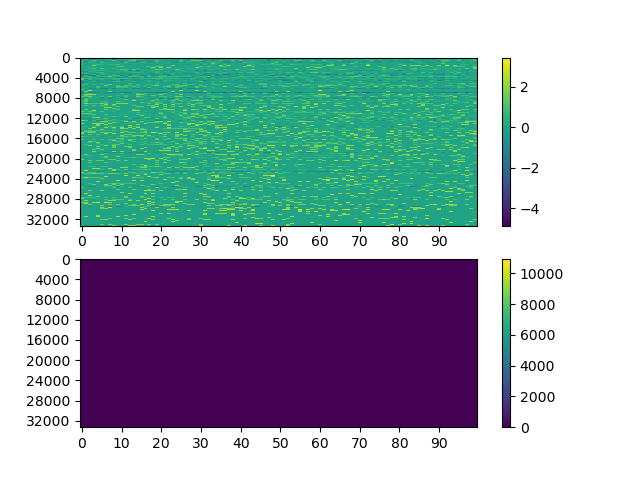
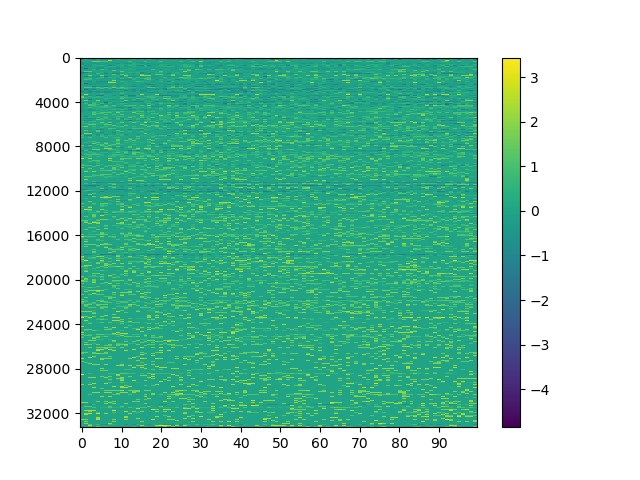
Up

diff --git a/paper_related/co-occurrence/dependency.py b/paper_related/co-occurrence/dependency.py
@@ -151,18 +151,19 @@ if args.word2 == None:
 	#np.set_printoptions(threshold=sys.maxsize, formatter={'float': lambda x: "{0:0.3f}".format(x)})
 	#print(np.nonzero(pmi_row[0]))
 	fig = plt.figure()
-	ax = fig.add_subplot(211)
+	ax = plt.axes()
+#	ax = fig.add_subplot(211)
 	plt.imshow(np.transpose(pmi_row))
 	ax.set_aspect('auto')
 	ax.xaxis.set_major_locator(MaxNLocator(integer=True))
 	ax.yaxis.set_major_locator(MaxNLocator(integer=True))
 	plt.colorbar(orientation='vertical')
-	ax = fig.add_subplot(212)
-	plt.imshow(np.transpose(Ni_XY_row))
-	ax.set_aspect('auto')
-	ax.xaxis.set_major_locator(MaxNLocator(integer=True))
-	ax.yaxis.set_major_locator(MaxNLocator(integer=True))
-	plt.colorbar(orientation='vertical')
+#	ax = fig.add_subplot(212)
+#	plt.imshow(np.transpose(Ni_XY_row))
+#	ax.set_aspect('auto')
+#	ax.xaxis.set_major_locator(MaxNLocator(integer=True))
+#	ax.yaxis.set_major_locator(MaxNLocator(integer=True))
+#	plt.colorbar(orientation='vertical')
 	print("Maximum frequency: %d" % (np.max(Ni_XY_row)))
 	plt.savefig("pmi_word_"+args.word1+"_"+str(args.dataset))
 	plt.show()
